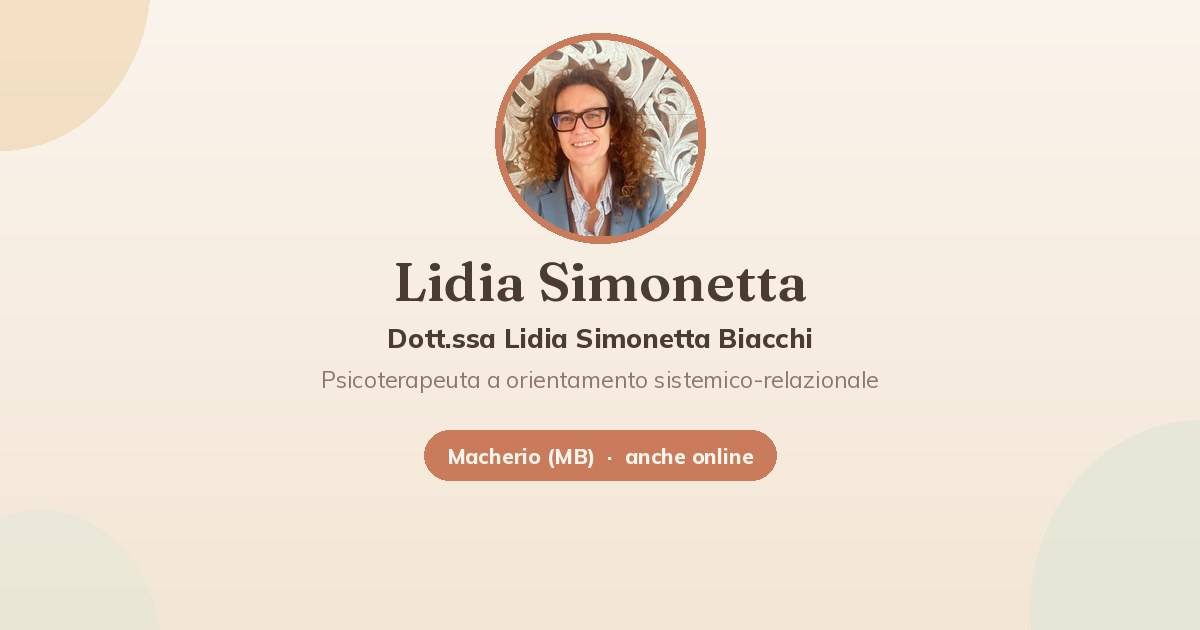
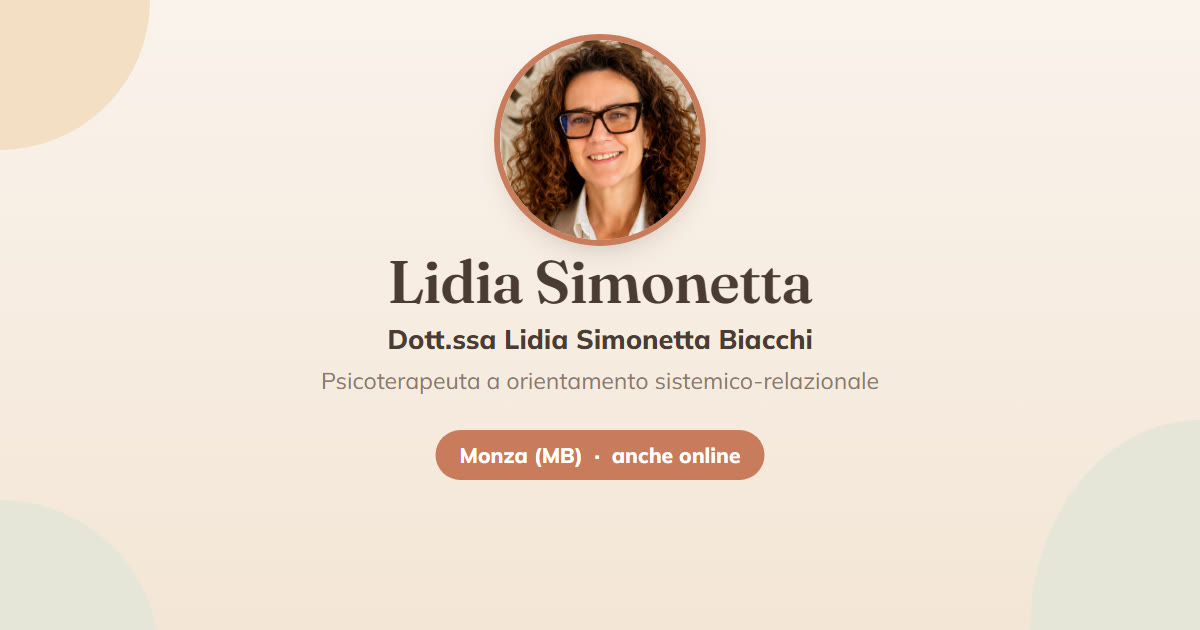
Refresh WhatsApp preview image with new portrait and Monza location
Regenerate og-image.jpg using the current portrait and the "Monza (MB)"
location, and add a ?v=2 cache-busting parameter to the og:image and
twitter:image URLs so WhatsApp and Facebook fetch the new image instead
of their cached copy. Document the version bump in CLAUDE.md.

diff --git a/index.html b/index.html
@@ -11,14 +11,14 @@
   <meta property="og:title" content="Psicoterapia Lidia Simonetta Biacchi — Psicoterapeuta a Monza (MB) e online">
   <meta property="og:description" content="Dott.ssa Lidia Simonetta Biacchi, psicoterapeuta a orientamento sistemico-relazionale. Percorsi per adulti, coppie e famiglie a Monza (MB) e online, su appuntamento.">
   <meta property="og:url" content="https://pkoller.github.io/psicoterapia_lidia/">
-  <meta property="og:image" content="https://pkoller.github.io/psicoterapia_lidia/assets/img/og-image.jpg">
+  <meta property="og:image" content="https://pkoller.github.io/psicoterapia_lidia/assets/img/og-image.jpg?v=2">
   <meta property="og:image:width" content="1200">
   <meta property="og:image:height" content="630">
   <meta property="og:image:alt" content="Psicoterapia Lidia Simonetta Biacchi — Dott.ssa Lidia Simonetta Biacchi">
   <meta name="twitter:card" content="summary_large_image">
   <meta name="twitter:title" content="Psicoterapia Lidia Simonetta Biacchi — Psicoterapeuta a Monza (MB) e online">
   <meta name="twitter:description" content="Dott.ssa Lidia Simonetta Biacchi, psicoterapeuta a orientamento sistemico-relazionale. Percorsi per adulti, coppie e famiglie a Monza (MB) e online, su appuntamento.">
-  <meta name="twitter:image" content="https://pkoller.github.io/psicoterapia_lidia/assets/img/og-image.jpg">
+  <meta name="twitter:image" content="https://pkoller.github.io/psicoterapia_lidia/assets/img/og-image.jpg?v=2">
 
   <link rel="icon" type="image/svg+xml" href="assets/img/favicon.svg">
   <link rel="alternate" hreflang="en" href="en/index.html">

diff --git a/en/index.html b/en/index.html
@@ -11,14 +11,14 @@
   <meta property="og:title" content="Psicoterapia Lidia Simonetta Biacchi — Psychotherapist in Monza (MB) and online">
   <meta property="og:description" content="Dr. Lidia Simonetta Biacchi, systemic-relational psychotherapist. Therapy for adults, couples and families in Monza (MB) and online, by appointment.">
   <meta property="og:url" content="https://pkoller.github.io/psicoterapia_lidia/en/">
-  <meta property="og:image" content="https://pkoller.github.io/psicoterapia_lidia/assets/img/og-image.jpg">
+  <meta property="og:image" content="https://pkoller.github.io/psicoterapia_lidia/assets/img/og-image.jpg?v=2">
   <meta property="og:image:width" content="1200">
   <meta property="og:image:height" content="630">
   <meta property="og:image:alt" content="Psicoterapia Lidia Simonetta Biacchi — Dr. Lidia Simonetta Biacchi">
   <meta name="twitter:card" content="summary_large_image">
   <meta name="twitter:title" content="Psicoterapia Lidia Simonetta Biacchi — Psychotherapist in Monza (MB) and online">
   <meta name="twitter:description" content="Dr. Lidia Simonetta Biacchi, systemic-relational psychotherapist. Therapy for adults, couples and families in Monza (MB) and online, by appointment.">
-  <meta name="twitter:image" content="https://pkoller.github.io/psicoterapia_lidia/assets/img/og-image.jpg">
+  <meta name="twitter:image" content="https://pkoller.github.io/psicoterapia_lidia/assets/img/og-image.jpg?v=2">
 
   <link rel="icon" type="image/svg+xml" href="../assets/img/favicon.svg">
   <link rel="alternate" hreflang="it" href="../index.html">

diff --git a/CLAUDE.md b/CLAUDE.md
@@ -80,9 +80,14 @@ visivo. Per aggiungere foto dello studio:
 `assets/img/og-image.jpg` (1200×630px) è l'immagine usata per le anteprime
 quando il link viene condiviso (WhatsApp, Facebook, ecc.), referenziata nei
 tag `og:image` / `twitter:image` di entrambe le pagine con URL assoluto
-`https://pkoller.github.io/psicoterapia_lidia/assets/img/og-image.jpg`. Se
+`https://pkoller.github.io/psicoterapia_lidia/assets/img/og-image.jpg?v=2`. Se
 il sito viene pubblicato su un altro domino, aggiorna questi URL assoluti
 (tag `og:url`, `og:image`, `twitter:image`) in entrambe le pagine.
+
+Quando sostituisci `og-image.jpg`, incrementa anche il parametro `?v=N`
+negli URL `og:image` / `twitter:image` di entrambe le pagine: WhatsApp e
+Facebook mettono in cache l'anteprima per URL, quindi senza un URL nuovo
+continuano a mostrare l'immagine vecchia.
 
 ## Icone/illustrazioni SVG
 
